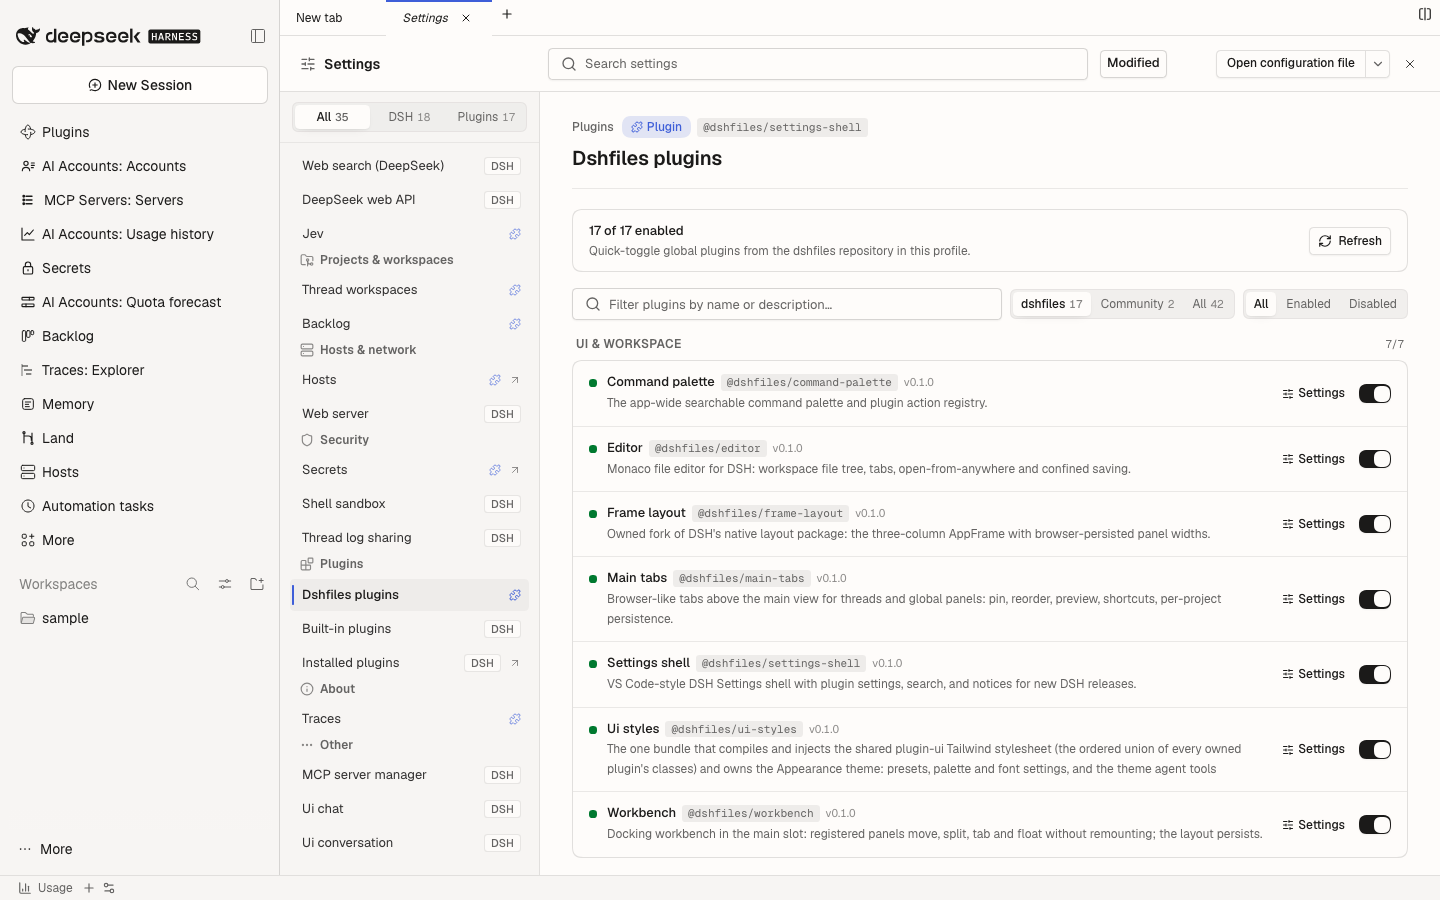
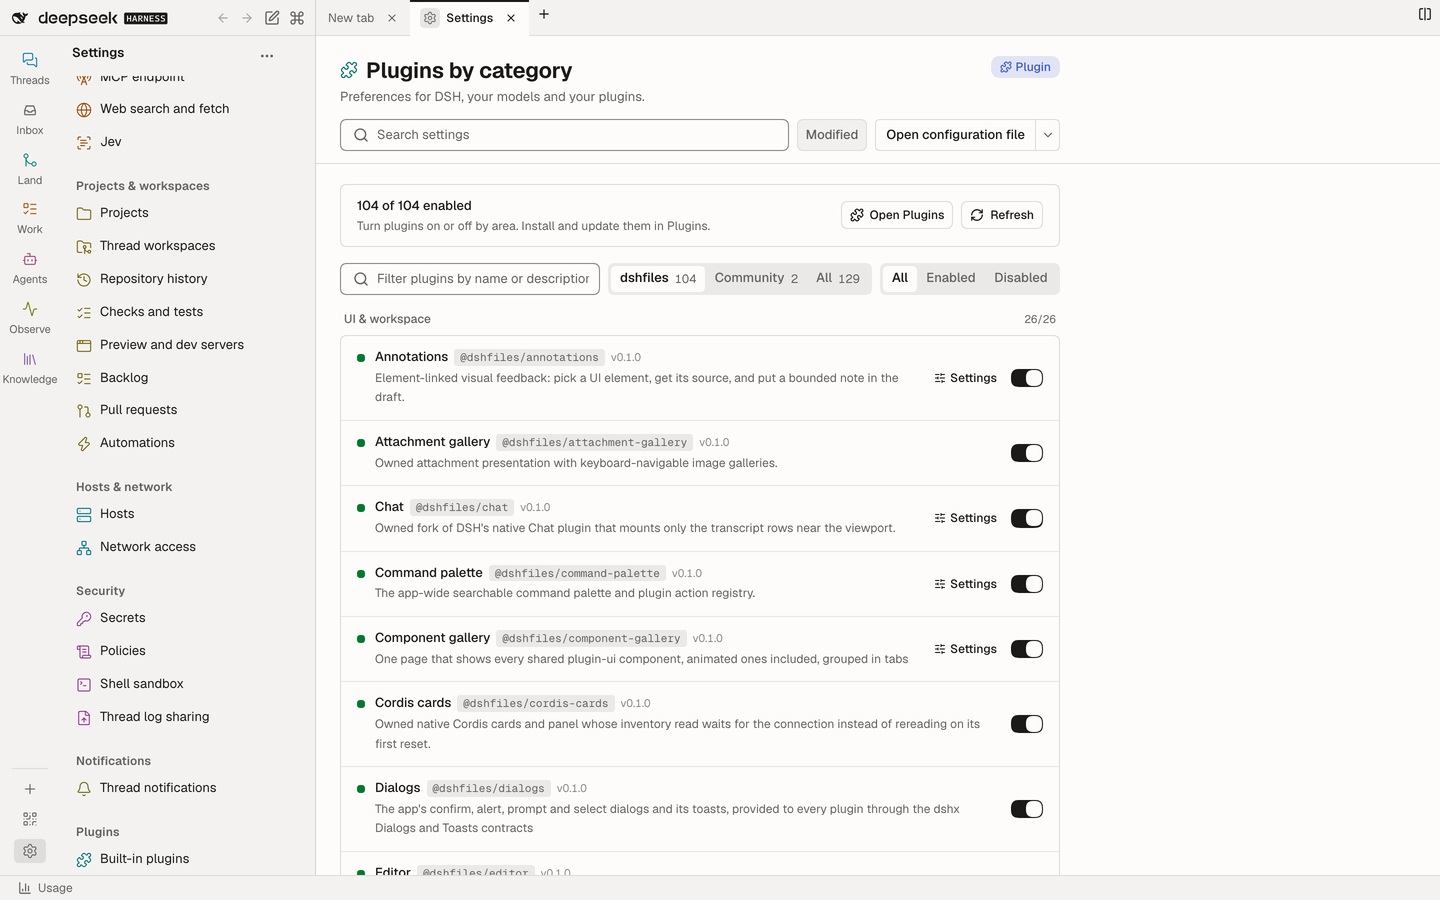
docs(settings-shell): refresh the source filter and Plugins by category screenshots
Upstream's two screenshots showed the pre-merge page: the filter atop an in-page list with a pill or puzzle on every row, and Plugins by category under a second title. They now show the merged page from a scratch DSH: the column filtered to DSH defaults, and Plugins by category with the branch's copy.

diff --git a/plugins/@dshfiles/settings-shell/README.md b/plugins/@dshfiles/settings-shell/README.md
@@ -8,7 +8,7 @@
 
 ![Settings grouped by task, with deep links](docs/screenshots/settings-task-groups.png)
 
-![Settings sidebar distinguishing default DSH and plugin categories](docs/screenshots/settings-origin-distinction.png)
+![Settings filtered to DSH defaults from the head of the category list](docs/screenshots/settings-origin-distinction.png)
 
 ![Plugins by category](docs/screenshots/dshfiles-plugins-page.png)
 
